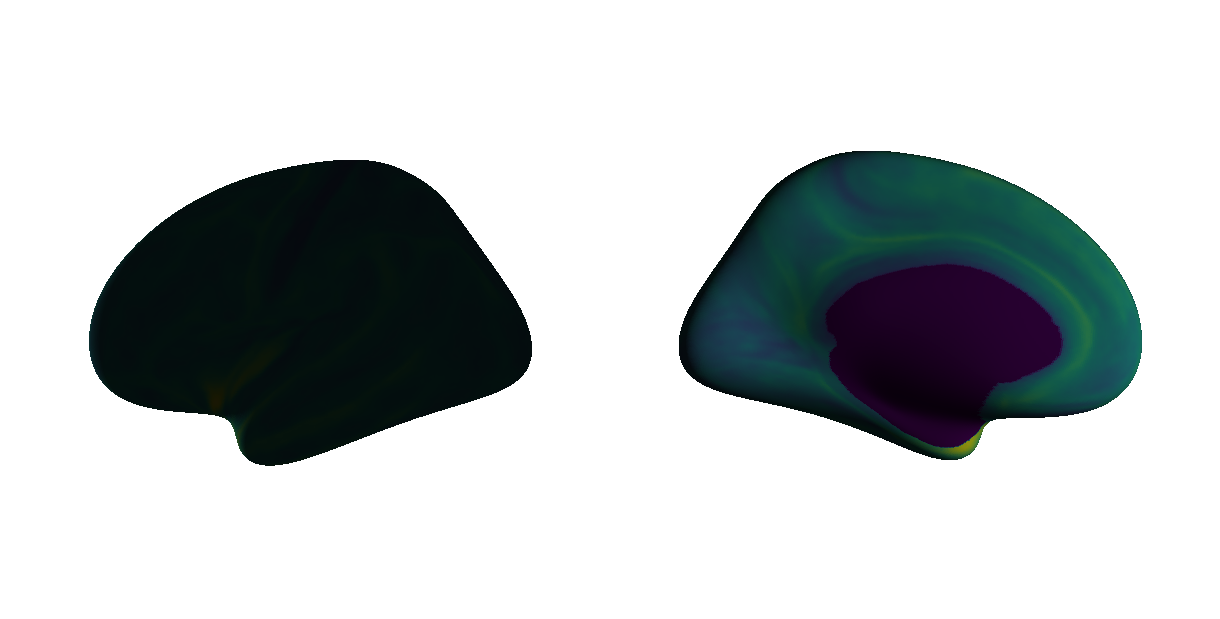
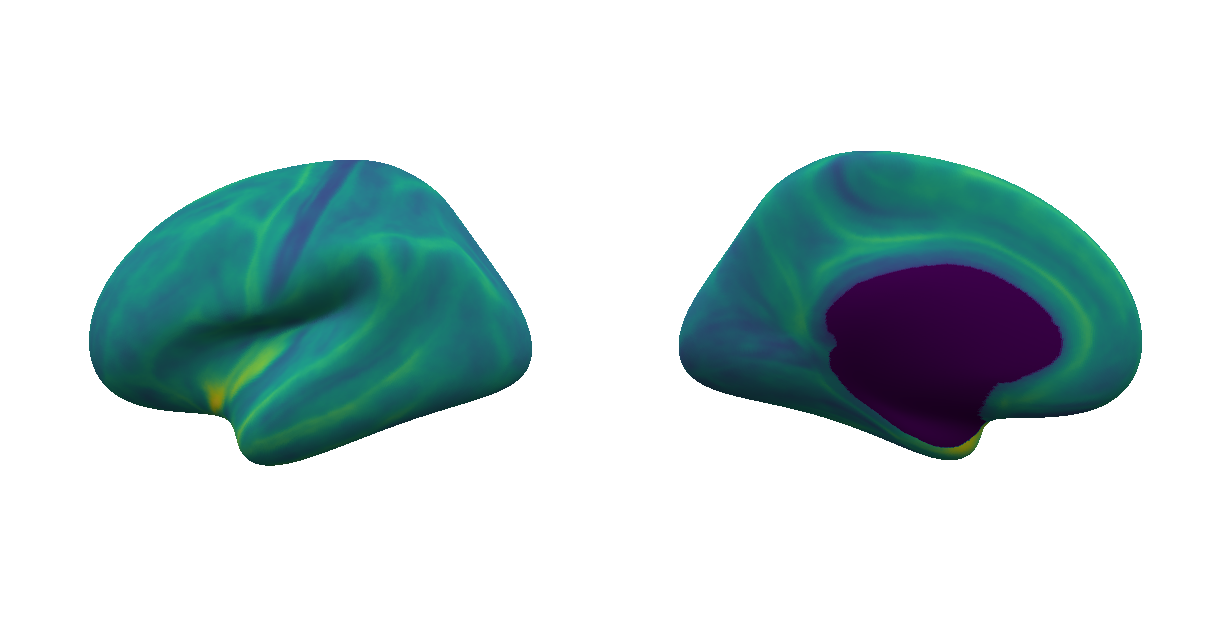
shading intensity added

diff --git a/matplotlib_surface_plotting.py b/matplotlib_surface_plotting.py
@@ -2,6 +2,26 @@ import numpy as np
 import matplotlib.pyplot as plt
 from matplotlib.collections import PolyCollection
 
+def normalize_v3(arr):
+    ''' Normalize a numpy array of 3 component vectors shape=(n,3) '''
+    lens = np.sqrt( arr[:,0]**2 + arr[:,1]**2 + arr[:,2]**2 )
+    arr[:,0] /= lens
+    arr[:,1] /= lens
+    arr[:,2] /= lens                
+    return arr
+
+def normal_vectors(vertices,faces):
+    norm = np.zeros( vertices.shape, dtype=vertices.dtype )
+    tris = vertices[faces]
+    n = np.cross( tris[::,1 ] - tris[::,0]  , tris[::,2 ] - tris[::,0] )
+    n=normalize_v3(n)
+    return n
+#    norm[ faces[:,0] ] += n
+#    norm[ faces[:,1] ] += n
+#    norm[ faces[:,2] ] += n
+ #   return normalize_v3(norm)
+
+
 def frustum(left, right, bottom, top, znear, zfar):
     M = np.zeros((4, 4), dtype=np.float32)
     M[0, 0] = +2.0 * znear / (right - left)
@@ -12,18 +32,22 @@ def frustum(left, right, bottom, top, znear, zfar):
     M[2, 3] = -2.0 * znear * zfar / (zfar - znear)
     M[3, 2] = -1.0
     return M
+
 def perspective(fovy, aspect, znear, zfar):
     h = np.tan(0.5*np.radians(fovy)) * znear
     w = h * aspect
     return frustum(-w, w, -h, h, znear, zfar)
+
 def translate(x, y, z):
     return np.array([[1, 0, 0, x], [0, 1, 0, y],
                      [0, 0, 1, z], [0, 0, 0, 1]], dtype=float)
+
 def xrotate(theta):
     t = np.pi * theta / 180
     c, s = np.cos(t), np.sin(t)
     return np.array([[1, 0,  0, 0], [0, c, -s, 0],
                      [0, s,  c, 0], [0, 0,  0, 1]], dtype=float)
+
 def yrotate(theta):
     t = np.pi * theta / 180
     c, s = np.cos(t), np.sin(t)
@@ -43,16 +67,31 @@ def plot_surf(vertices, faces,overlay,rotate=270, cmap='viridis', filename='plot
     vertices = (vertices-(vertices.max(0)+vertices.min(0))/2)/max(vertices.max(0)-vertices.min(0))
     if not isinstance(rotate,list):
         rotate=[rotate]
+    face_normals=normal_vectors(vertices,F)
+    light = np.array([0,0,1])
+
+    intensity = np.dot(face_normals, light)
+    #shading 0-1. 0= none. 1 = full
+    shading = 0.7
+    #top 20% all become fully coloured
+    intensity = (1-shading)+shading*(intensity-np.min(intensity))/((np.percentile(intensity,80)-np.min(intensity)))
+    #saturate
+    intensity[intensity>1]=1
     
+#    print(np.min(intensity),np.max(intensity))
     #colours smoothed (mean) or median if label
     if label:
         colours = np.median(overlay[F],axis=1)
     else:
         colours = np.mean(overlay[F],axis=1)
     colours = (colours - colours.min())/(colours.max()-colours.min())
-    C = plt.get_cmap(cmap)(colours)
+    C = plt.get_cmap(cmap)(colours) 
+    C[:,0] *= intensity
+    C[:,1] *= intensity
+    C[:,2] *= intensity
      #make figure dependent on rotations
     fig = plt.figure(figsize=(6*len(rotate),6))
+    print('plotting')
     for i,view in enumerate(rotate):
         MVP = perspective(25,1,1,100) @ translate(0,0,-3) @ yrotate(view) @ xrotate(270)
     #translate coordinates based on viewing position
